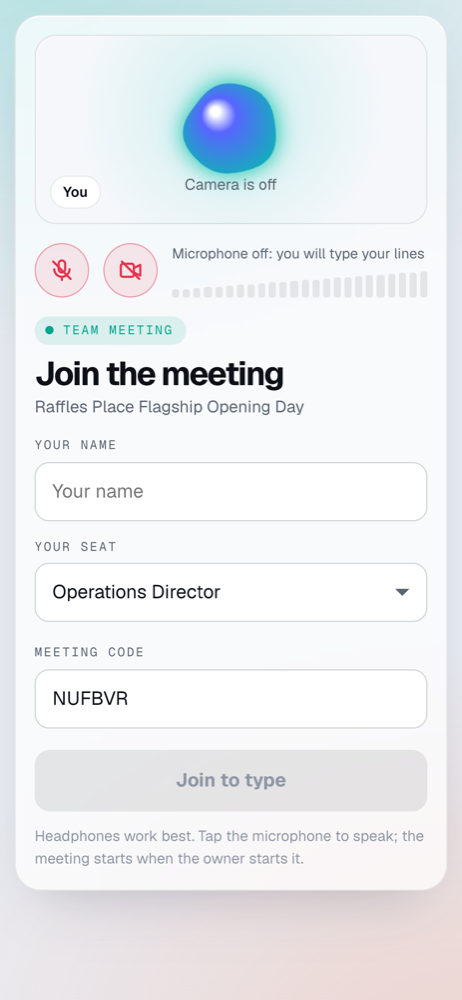
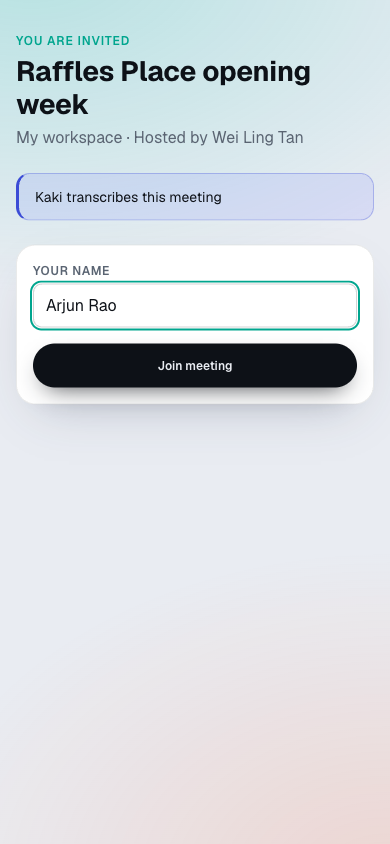
docs: fresh README screenshots incl. phone room and minutes
Claude-Session: https://claude.ai/code/session_01WsoCaY9VwaqayVJA6RDmWu

diff --git a/README.md b/README.md
@@ -5,7 +5,7 @@ A meeting assistant that gives every seat a private wingman.
 [Live demo](https://green-sky-0c9a41800.4.azurestaticapps.net) · [Screenshots](#screenshots) · [Architecture](#architecture) · [Setup automation](#setup-automation) · [Contents](#contents) · [Poster](docs/poster/kaki-a1-poster.pdf)
 
 ![Kaki meeting room](docs/images/meeting-room.png)
-*A practice meeting. Kaki Wingman has just handed the Operations Director a private fact for the question on the table.*
+*A team meeting in progress: the owner and a guest, with Kaki's agenda, live transcript and a follow-up card in the side panel.*
 
 Kaki (Singlish for "buddy" or "one of us") helps a small team run a meeting and finish the work it creates. A person signs in, gets a personal workspace, and connects the tools that workspace already uses. They start a meeting now or schedule it for later, invite people by link or QR code, and guests join under their own name without an account. Each person holds their own seat and gets a private wingman, while a neutral host keeps the clock and the notes. Follow-ups become to-do cards that a person can hand to Kaki to draft, and the minutes and to-dos stay in the workspace after the meeting ends. A practice meeting, where AI colleagues fill the other seats, is one click away at `/practice`, with no sign-in.
 
@@ -28,6 +28,10 @@ Kaki (Singlish for "buddy" or "one of us") helps a small team run a meeting and 
   <tr>
     <td align="center"><img src="docs/images/landing.png" alt="Kaki landing page" width="420"><br><sub>Choose a team meeting or a practice meeting.</sub></td>
     <td align="center"><img src="docs/images/phone-join.png" alt="Kaki join screen on a phone" width="260"><br><sub>The join screen on a phone.</sub></td>
+  </tr>
+  <tr>
+    <td align="center"><img src="docs/images/phone-room.png" alt="Kaki meeting room on a phone" width="260"><br><sub>The same meeting on a guest's phone.</sub></td>
+    <td align="center"><img src="docs/images/minutes.png" alt="Kaki meeting minutes in the workspace" width="420"><br><sub>The minutes and to-dos stay in the workspace after the meeting.</sub></td>
   </tr>
   <tr>
     <td align="center" colspan="2"><img src="docs/images/waking.png" alt="Kaki start page waking the cloud server" width="420"><br><sub>The always-on start page wakes the cloud server when it is off.</sub></td>
